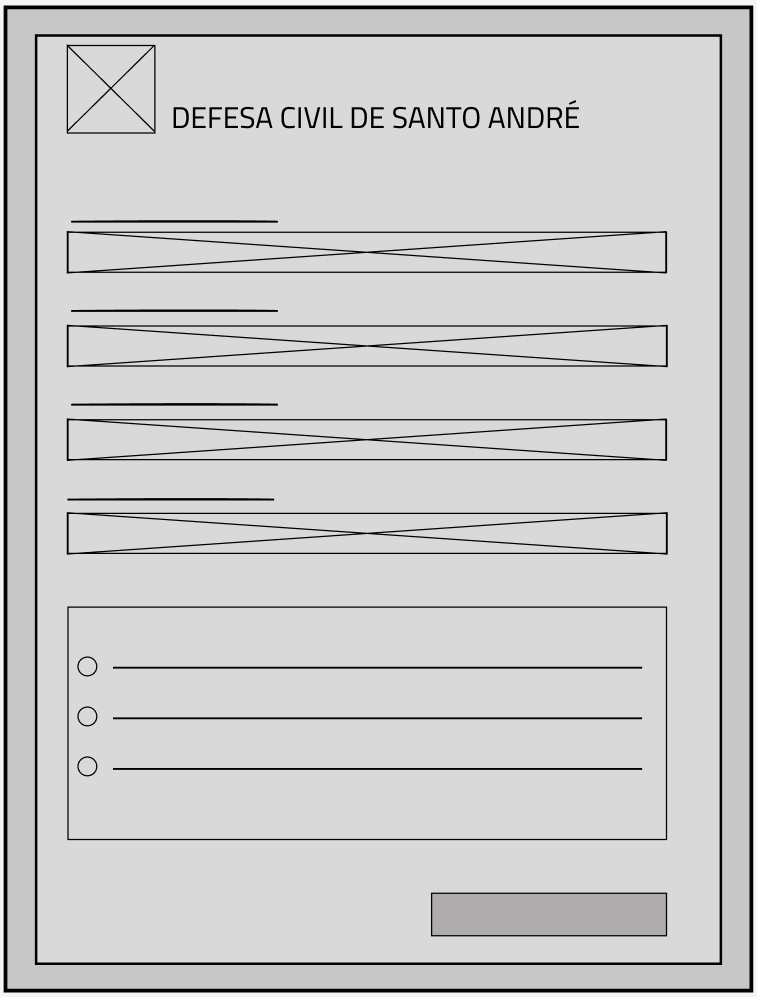
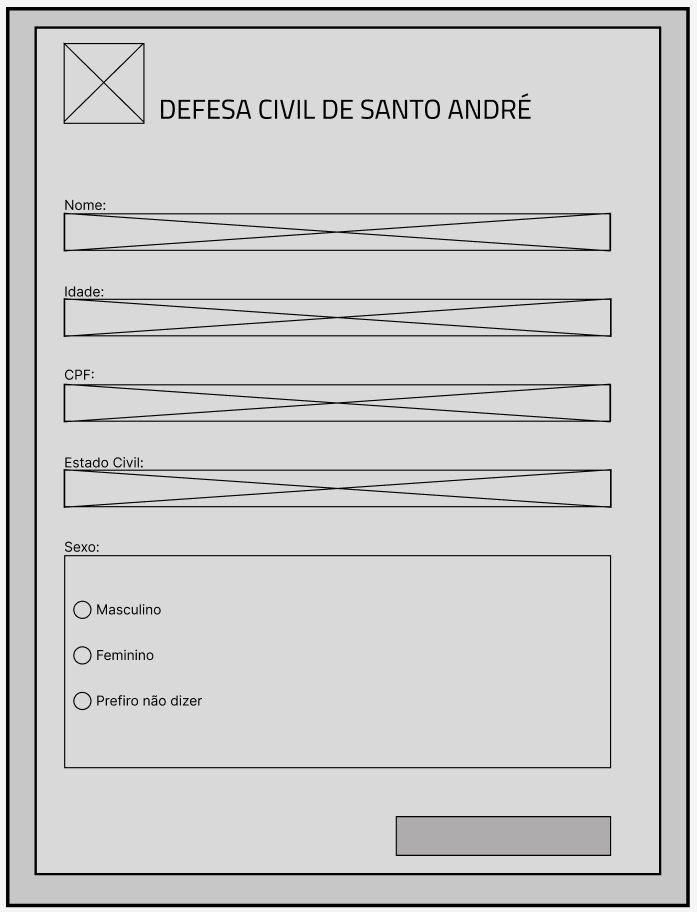
docs(wad): Correções da documentação do wireframe da tela do forms#53

diff --git a/documentos/wad.md b/documentos/wad.md
@@ -633,8 +633,14 @@ Este caso de uso transforma os dados brutos em inteligência estratégica para a
 
 *Documente os design patterns utilizados (Repository, Strategy, Factory, DTO etc.) e quais princípios SOLID se aplicam. Justifique a adoção de cada padrão com base em uma necessidade real do projeto.*
 
-## 3.3. Wireframes (sprint 2)
+## 3.3. Wireframes
 
+Este wireframe representa a tela de cadastro de famílias e residências do sistema da Defesa Civil de Santo André. A interface foi projetada para permitir o registro organizado das informações das famílias atendidas e das características das moradias associadas.
+Na parte superior da tela, encontra-se a identificação do sistema, composta pelo logotipo e pelo título “Defesa Civil de Santo André”.
+A região central da interface contém uma sequência de campos de formulário destinados ao preenchimento de informações cadastrais. Esses campos podem incluir dados como nome do responsável familiar, contato, situação da moradia e outras informações relevantes para o monitoramento social e territorial realizado pela Defesa Civil.
+Logo abaixo, há um esboço da área dedicada à seleção de opções, representada por botões de escolha. Essa seção pode ser utilizada para indicar condições da residência, nível de risco da área, genêro, etc.
+Na parte inferior direita da tela, encontra-se o botão de ação principal, responsável por confirmar e salvar o cadastro realizado no sistema.
+O wireframe adota uma estrutura simples e objetiva, priorizando clareza visual de como será feito o formulário de preenchimento cadastral, facilitando alterações para o uso de agentes responsáveis pelo registro das famílias e residências atendidas.
 
 <div align="center">
   <p>Figura 09: Wireframe tela formulario</p>
